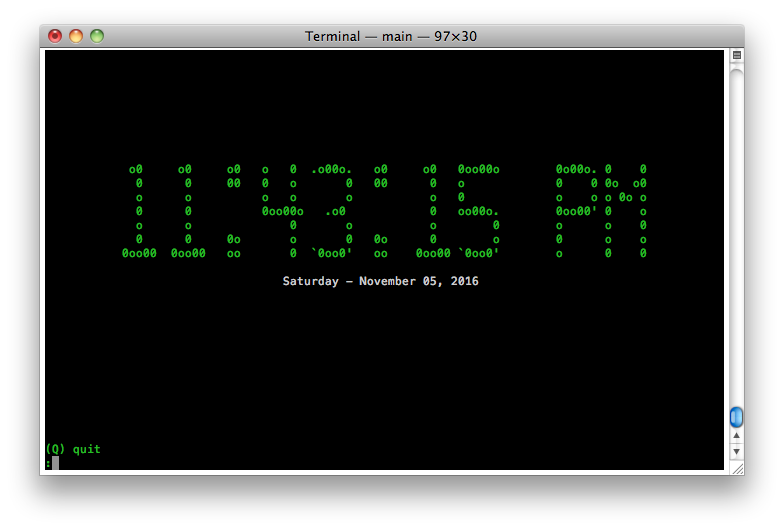
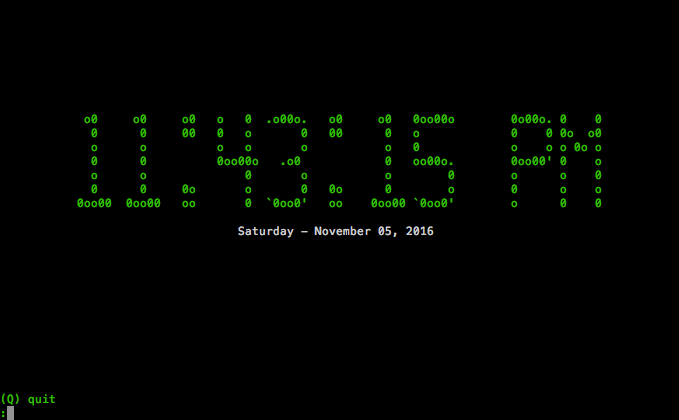
docs: Add Setup, Usage, and License section to README.md. Crop program window example image.

diff --git a/README.md b/README.md
@@ -1,5 +1,37 @@
 # ncurses-clock
 
-Draws a clock in terminal window using ncurses
+Draws a clock in the terminal window using the ncurses library
 
 !["Example window running clock"](./docs/images/example_window.png)
+
+## Setup
+
+```
+# Clone this repository
+git clone 
+
+# Compile the program using the Makefile
+cd ncurses-clock
+make all
+
+# Start the clock; can be quit by typing 'Q'
+./ncurses-clock
+```
+
+## Usage
+
+There are a few alternate usage mode available.
+
+```
+Usage: ncurses-clock [options]
+  options:
+    -12h       Use 12-hour clock mode (default)
+    -24h       Use 24-hour clock mode
+    -secs=on   Display time including seconds (default)
+    -secs=off  Display time without seconds
+    -help      Show this help message
+```
+
+## License
+
+The code in this repository is licensed under the [MIT License](./LICENSE).
